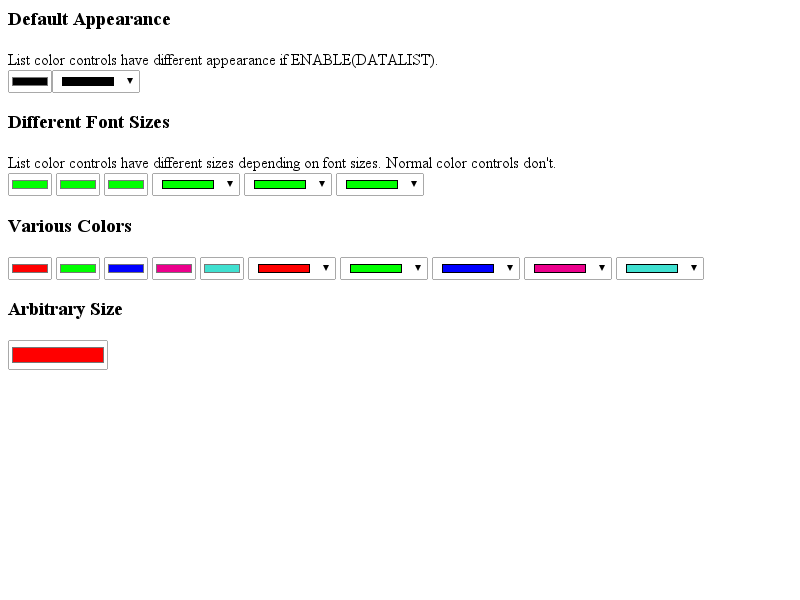
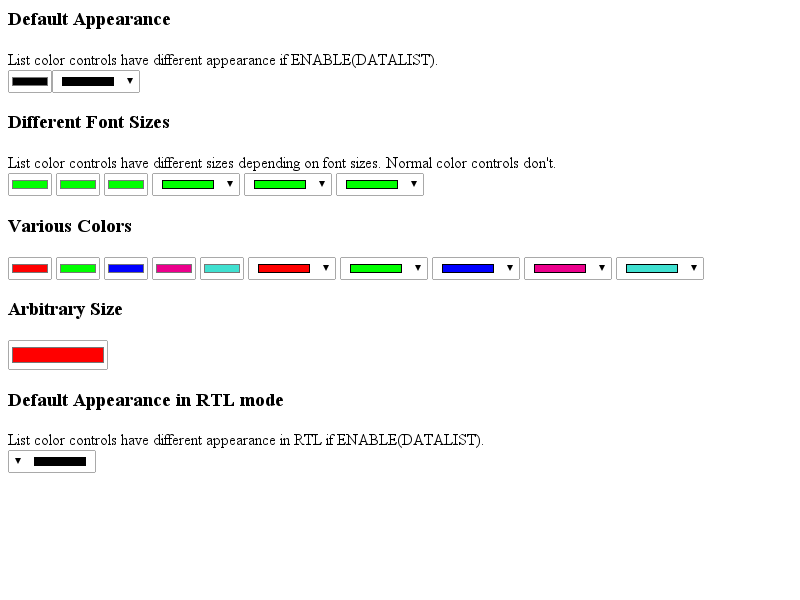
make input type=color RTL direction aware
BUG=232333

Review URL: https://codereview.chromium.org/34753002

git-svn-id: svn://svn.chromium.org/blink/trunk@160714 bbb929c8-8fbe-4397-9dbb-9b2b20218538

Changed region(s): [[0.0, 0.72, 0.5938, 0.78], [0.0, 0.66, 0.375, 0.69]]

diff --git a/LayoutTests/fast/forms/color/input-appearance-color.html b/LayoutTests/fast/forms/color/input-appearance-color.html
@@ -22,3 +22,6 @@ List color controls have different sizes depending on font sizes. Normal color c
 <input type="color" value="#40e0d0" list>
 <h3>Arbitrary Size</h3>
 <input type="color" value="#FF0000" style="width:100px;height:30px;">
+<h3>Default Appearance in RTL mode</h3>
+List color controls have different appearance in RTL if ENABLE(DATALIST).<br>
+<input type="color" list dir="RTL">

diff --git a/Source/core/rendering/RenderTheme.cpp b/Source/core/rendering/RenderTheme.cpp
@@ -490,7 +490,7 @@ String RenderTheme::extraDefaultStyleSheet()
 
         if (RuntimeEnabledFeatures::inputTypeColorEnabled()) {
             runtimeCSS.appendLiteral("input[type=\"color\"][list] { -webkit-appearance: menulist; width: 88px; height: 23px;}");
-            runtimeCSS.appendLiteral("input[type=\"color\"][list]::-webkit-color-swatch-wrapper { padding-left: 8px; padding-right: 24px;}");
+            runtimeCSS.appendLiteral("input[type=\"color\"][list]::-webkit-color-swatch-wrapper { -webkit-padding-start: 8px; -webkit-padding-end: 24px;}");
             runtimeCSS.appendLiteral("input[type=\"color\"][list]::-webkit-color-swatch { border-color: #000000;}");
         }
     }
